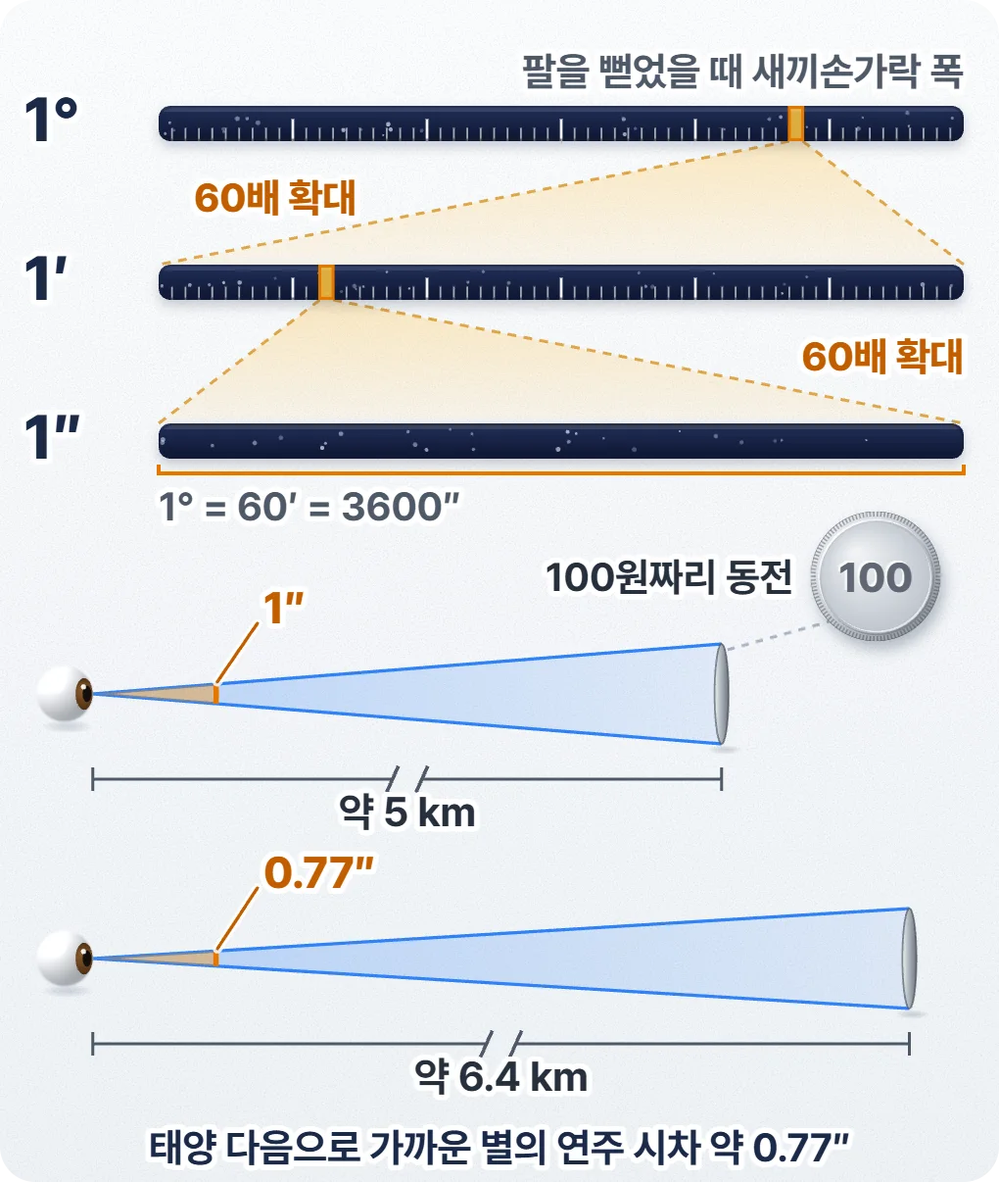
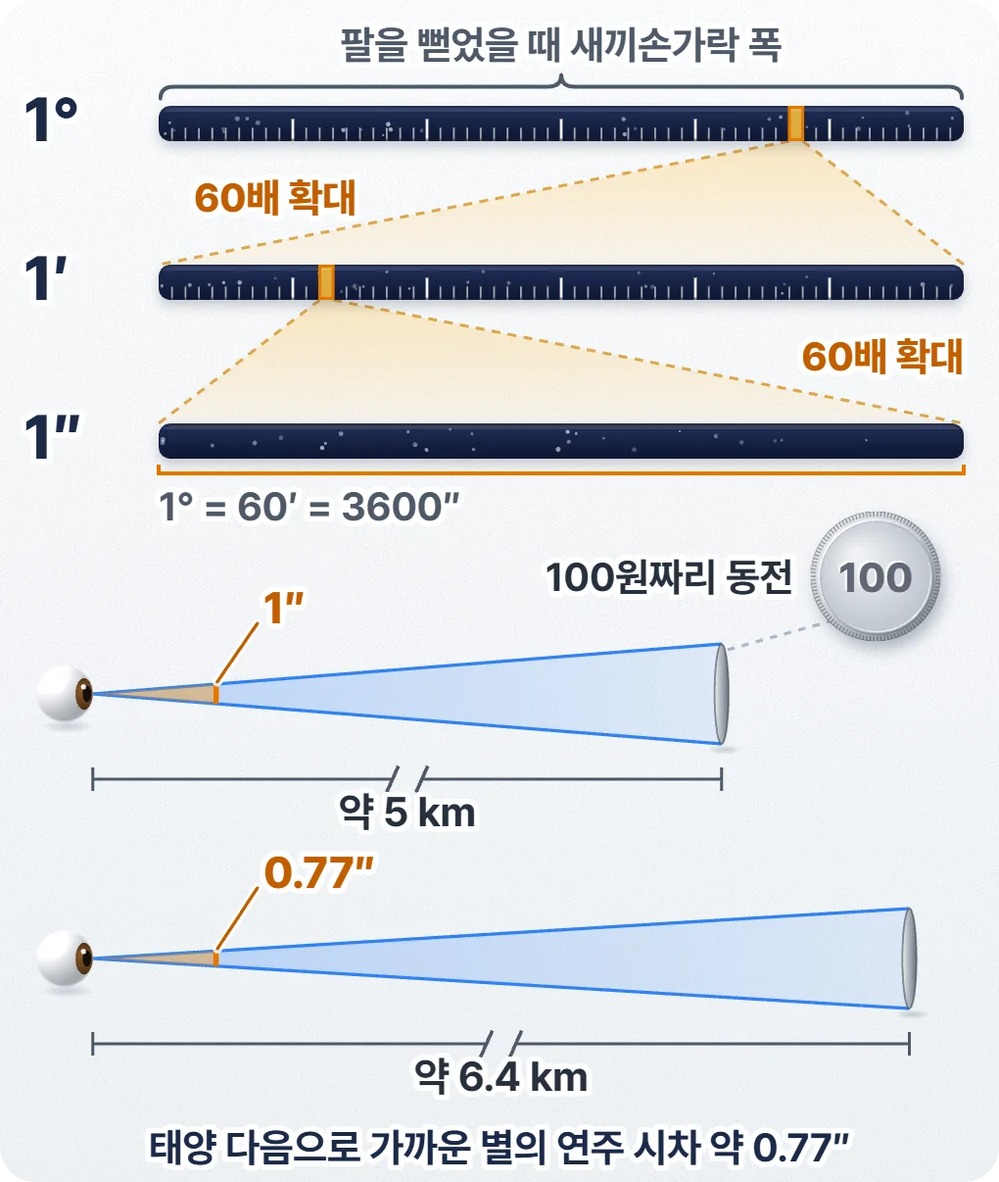
중2 과학 그림 독립 검산 지적 고치기(열한 장)
확실한 결함
- g2u1l8f1 재결정 거르기: 기운 비커의 수면을 부리까지 올리고(수면이 부리보다 낮은데 흐르던 것), 수면 위 벽에 떠 있던 결정을 용액 속 가장 낮은 곳으로
- g2u1l9f1 증류탑: 액체가 내려가는 관 안의 덮개와 기체 화살표를 뺌(기체는 판 위 덮개로만)
- g2u4l4f1 주기율표: 칸에 없는 '원자 번호'를 가리키던 범례를 '원소 기호'와 "칸은 원자 번호 차례예요(1번 수소부터)"로
- g2u8l8f1 같은 비율 칸: 지구보다 크게 들어 있던 명왕성 사진을 상자 밖으로 빼고 "크게 그렸어요" 표시, 태양 기호처럼 보이던 달 고리 없앰
의심이지만 고친 것
- g2u1l8f1 거름종이 확대 원의 흐름 화살표를 결정 사이 용액에서 시작, '거름종이' 지시선을 종이 면으로
- g2u2l1f1 아직 배우지 않은 '(모호면)' 뺌
- g2u2l6f1 '지표로 드러남' 보라 화살표를 변성암에서 지표까지, 이름표
- g2u3l2f1 캡션에 '비스듬히 들어갈 때' 조건(0° → 0°와 어긋나던 문장)
- g2u4l4f1 '란타넘족, 악티늄족'을 '57~71번, 89~103번'으로
- g2u4l1f2 엇갈리던 두 지시선
- g2u8l7f1 우리은하에 '상상도' 표시(대체 글도), g2u8l1f1 새끼손가락 폭이 1° 막대 전체를 가리키게, g2u6l5f2 돌아 나온 세뇨관의 꺾임을 보먼주머니 밖으로

Changed region(s): [[0.152, 0.0, 0.9725, 0.092]]

diff --git a/src/content/g2/unit8v5parts2.ts b/src/content/g2/unit8v5parts2.ts
@@ -239,7 +239,7 @@ export const L7: Step[] = numbered([
         art: starMiniArt("galaxy"),
         text: "<b>우리은하 밖에 있는 은하</b>예요. 우주에는 우리은하와 비슷한 은하가 수없이 많아요.",
         examples: ["안드로메다은하", "우리은하와 비슷한 은하가 수없이 많다"],
-        more: `${H("어떻게 알았을까요?")}100여 년 전까지 사람들은 우리은하가 우주의 전부라고 생각했어요. 그런데 천문학자 허블이 성운처럼 뿌옇게 보이던 천체까지의 거리를 재 보니 우리은하의 크기보다 훨씬 멀었어요. 그 천체는 우리은하 밖에 있는 또 다른 은하, 안드로메다은하였어요.${sciFigMore("g2u8l7f1", "아래 띠에 우리은하와 안드로메다은하를 같은 비율로 줄여 놓았어요. 두 은하 사이는 우리은하 지름의 약 25배인 약 77만 pc예요. 위의 확대 원에는 위에서 본 우리은하와 비스듬히 기운 안드로메다은하의 모습이 있어요.", "우리은하와 안드로메다은하를 같은 비율로 줄여 놓았어요. 두 은하는 우리은하 지름의 25배쯤 떨어져 있어요. 그래서 안드로메다은하는 우리은하 밖에 있는 또 하나의 은하예요.")}${H("그리고 또 하나")}허블은 멀리 있는 외부 은하일수록 우리은하에서 더 빨리 멀어진다는 사실도 알아냈어요. 이것이 우주가 팽창한다는 증거가 됐어요.${H("헷갈리지 마세요")}외부 은하는 우리은하 안의 성운이나 성단과 달라요. 성운과 성단은 <b>우리은하를 이루는 천체</b>이고, 외부 은하는 우리은하처럼 수많은 별이 모인 <b>또 하나의 은하</b>예요.`,
+        more: `${H("어떻게 알았을까요?")}100여 년 전까지 사람들은 우리은하가 우주의 전부라고 생각했어요. 그런데 천문학자 허블이 성운처럼 뿌옇게 보이던 천체까지의 거리를 재 보니 우리은하의 크기보다 훨씬 멀었어요. 그 천체는 우리은하 밖에 있는 또 다른 은하, 안드로메다은하였어요.${sciFigMore("g2u8l7f1", "아래 띠에 우리은하와 안드로메다은하를 같은 비율로 줄여 놓았어요. 두 은하 사이는 우리은하 지름의 약 25배인 약 77만 pc예요. 위의 확대 원에는 위에서 본 우리은하의 상상도와 비스듬히 기운 안드로메다은하 사진의 모습이 있어요.", "우리은하와 안드로메다은하를 같은 비율로 줄여 놓았어요. 두 은하는 우리은하 지름의 25배쯤 떨어져 있어요. 그래서 안드로메다은하는 우리은하 밖에 있는 또 하나의 은하예요.")}${H("그리고 또 하나")}허블은 멀리 있는 외부 은하일수록 우리은하에서 더 빨리 멀어진다는 사실도 알아냈어요. 이것이 우주가 팽창한다는 증거가 됐어요.${H("헷갈리지 마세요")}외부 은하는 우리은하 안의 성운이나 성단과 달라요. 성운과 성단은 <b>우리은하를 이루는 천체</b>이고, 외부 은하는 우리은하처럼 수많은 별이 모인 <b>또 하나의 은하</b>예요.`,
       },
       {
         name: "우주 팽창",

diff --git a/src/content/g2/unit3v5parts.ts b/src/content/g2/unit3v5parts.ts
@@ -123,7 +123,7 @@ const L2: G2U3Part = {
       { k: "figure", svg: cut("light", "g2u3l2", "유리 수조 속 물개의 수면 위 머리와 물속 몸통이 어긋나 보여 스틱맨이 깜짝 놀라고, 다른 스틱맨이 수면을 가리키는 장면"), cap: "수면을 지나며 꺾인 빛 때문에 몸통이 떠올라 보여요" },
         { k: "term", name: "빛의 굴절", def: "빛이 나아가다가 공기와 물처럼 <b>서로 다른 두 물질의 경계면</b>에서 진행 방향이 <b>꺾이는</b> 현상이에요. 경계면으로 들어가는 빛이 입사 광선, 꺾여 나아가는 빛이 <b>굴절 광선</b>이에요." },
         { k: "term", name: "입사각과 굴절각", def: "입사 광선과 법선이 이루는 각이 <b>입사각</b>, 굴절 광선과 법선이 이루는 각이 <b>굴절각</b>이에요. 실험에서 기록한 '들어간 각'이 입사각, '꺾인 각'이 굴절각이에요." },
-        sciFig("g2u3l2f1", "위는 공기, 아래는 물이에요. 수면의 한 점에 세운 법선을 기준으로, 왼쪽 위에서 입사각 40°로 들어간 빛은 굴절각 약 29°로 꺾여 꺾이지 않았다면 갈 길보다 법선 쪽으로 다가가요. 오른쪽 위에서 들어간 빛은 입사각 0°일 때 0°, 20°일 때 약 15°, 60°일 때 약 41°로 꺾여요.", "공기에서 물로 들어간 빛은 법선 쪽으로 꺾여요. 입사각이 커지면 굴절각도 커지지만, 굴절각은 늘 입사각보다 작아요."),
+        sciFig("g2u3l2f1", "위는 공기, 아래는 물이에요. 수면의 한 점에 세운 법선을 기준으로, 왼쪽 위에서 입사각 40°로 들어간 빛은 굴절각 약 29°로 꺾여 꺾이지 않았다면 갈 길보다 법선 쪽으로 다가가요. 오른쪽 위에서 들어간 빛은 입사각 0°일 때 0°, 20°일 때 약 15°, 60°일 때 약 41°로 꺾여요.", "공기에서 물로 비스듬히 들어간 빛은 법선 쪽으로 꺾여요. 입사각이 커지면 굴절각도 커지지만, 비스듬히 들어갈 때 굴절각은 늘 입사각보다 작아요."),
         { k: "note", tone: "amber", html: "빛이 <b>공기에서 물로</b> 비스듬히 들어갈 때 굴절각은 입사각보다 <b>작아요</b>. 입사각이 커지면 굴절각도 커져요. 수면에 수직으로 들어간 빛은 꺾이지 않아요." },
       ],
       cta: "다음 실험으로",

diff --git a/src/content/g2/sciFigG2.ts b/src/content/g2/sciFigG2.ts
@@ -31,7 +31,7 @@ const FIGS: Record<string, [string, number, number]> = {
   g2u3l7f1: ["u3", 1020, 1038],
   g2u4l1f1: ["u4", 1020, 990],
   g2u4l1f2: ["u4", 1020, 1146],
-  g2u4l4f1: ["u4", 1020, 924],
+  g2u4l4f1: ["u4", 1020, 960],
   g2u4l5f1: ["u4", 1020, 1152],
   g2u4l5f2: ["u4", 1020, 1230],
   g2u5l1f1: ["u5", 1020, 1212],
@@ -55,7 +55,7 @@ const FIGS: Record<string, [string, number, number]> = {
   g2u8l5f1: ["u8", 1020, 1218],
   g2u8l6f1: ["u8", 1020, 1140],
   g2u8l7f1: ["u8", 1020, 816],
-  g2u8l8f1: ["u8", 1020, 1080],
+  g2u8l8f1: ["u8", 1020, 1140],
   // </FIGS>
 };
 

diff --git a/qa/scifig-g2/figs/u1/g2u1l8f1.md b/qa/scifig-g2/figs/u1/g2u1l8f1.md
@@ -8,14 +8,18 @@
 - ① 질산 칼륨 10 g이 물 10 g에 다 녹으려면 약 56 ℃ 넘게 데워야 한다(용해도 50 ℃ 85.5, 60 ℃ 110). 그림의 용액은 두 물질이 모두 녹아 무색 투명, 가열 장치의 판이 달아 있고 김이 조금 오른다.
 - ② 식히면 질산 칼륨만 바늘(긴 각기둥) 모양 결정으로 나온다. 물 10 g에 녹아 있을 수 있는 질산 칼륨은 20 ℃ 약 3.2 g, 0 ℃ 약 1.3 g이라 나오는 양은 약 6.8~8.7 g: 작은 비커 바닥에 바늘 결정이 수북하다.
 - 염화 나트륨 2 g은 0 ℃에서도 물 10 g에 약 3.6 g까지 녹으므로 결정이 생기지 않는다: 정육면체 소금 결정은 어디에도 그리지 않았다.
-- ③ 거름 장치: 스탠드와 고리, 깔때기(원뿔 반각 30°), 네 겹으로 접어 원뿔로 편 거름종이(세 겹인 쪽에 유리 막대 끝을 댄다), 거름종이 가장자리는 깔때기 테두리보다 3 px 아래, 종이 속 용액 높이는 종이 높이를 넘지 않는다. 기울인 비커의 용액을 유리 막대를 타고 따른다(기울인 비커 속 수면은 수평). 깔때기 다리 끝은 비스듬히 잘렸고 뾰족한 쪽이 아래 비커의 안쪽 벽에 닿아, 거른 용액이 벽을 타고 흐른다. 받는 비커는 스탠드 받침판 위에 놓인다.
+- ③ 거름 장치: 스탠드와 고리, 깔때기(원뿔 반각 30°), 네 겹으로 접어 원뿔로 편 거름종이(세 겹인 쪽에 유리 막대 끝을 댄다), 거름종이 가장자리는 깔때기 테두리보다 3 px 아래, 종이 속 용액 높이는 종이 높이를 넘지 않는다. 기울인 비커의 용액을 유리 막대를 타고 따른다(기울인 비커 속 수면은 수평). 용액은 수면이 따르는 입까지 와야 흘러나오므로 수면 높이를 입(테두리의 가장 낮은 곳) 바로 위에 맞췄다. 기울인 비커에 아직 남은 결정 몇 개는 용액보다 무거워 가장 낮은 곳(따르는 입 쪽 벽과 바닥이 만나는 귀퉁이)의 용액 속에 가라앉아 있다(대부분의 결정은 이미 거름종이 위). 깔때기 다리 끝은 비스듬히 잘렸고 뾰족한 쪽이 아래 비커의 안쪽 벽에 닿아, 거른 용액이 벽을 타고 흐른다. 받는 비커는 스탠드 받침판 위에 놓인다.
 - 거른 용액에는 염화 나트륨 2 g과 미처 나오지 못한 질산 칼륨(약 1.3~3.2 g)이 함께 녹아 있다: 확대 원의 점은 종류를 나누지 않은 '녹아 있는 물질'(공통 규칙 2), 염화 나트륨만 있는 것처럼 그리지 않았다.
-- 확대 원: 거름종이 단면(납작한 셀룰로스 섬유가 여러 방향으로 얽힌 깔개)과 그 사이의 구멍. 결정은 구멍보다 훨씬 커서 종이 위에 걸리고, 아주 작은 점(녹아 있는 물질)과 물은 구멍을 지나간다(파란 화살표 셋). 실제 크기는 거름종이 구멍 수 μm, 결정 mm, 녹아 있는 입자 1 nm보다 작아서 크기 비는 실제와 다르다: 그림 안에 "크기는 실제와 다르게 그렸어요".
+- 확대 원: 거름종이 단면(납작한 셀룰로스 섬유가 여러 방향으로 얽힌 깔개)과 그 사이의 구멍. 결정은 구멍보다 훨씬 커서 종이 위에 걸리고, 아주 작은 점(녹아 있는 물질)과 물은 구멍을 지나간다(파란 화살표 셋). 화살표는 결정 사이와 옆의 용액에서 시작해 구멍을 지난다: 구멍 바로 위에는 결정을 두지 않아 결정이 종이를 뚫고 지나가는 것처럼 보이지 않게 했다. 실제 크기는 거름종이 구멍 수 μm, 결정 mm, 녹아 있는 입자 1 nm보다 작아서 크기 비는 실제와 다르다: 그림 안에 "크기는 실제와 다르게 그렸어요".
 
 ## 기하
 - ① 가열 장치 가운데 x 78, 윗면 y 132, 작은 비커 반지름 18(위 88 ~ 아래 130). ② 큰 비커 가운데 x 240, 반지름 37(위 78 ~ 아래 152), 찬물 높이 121, 작은 비커 반지름 18(위 92 ~ 아래 147), 작은 비커 뒤와 앞 가운데는 얼음을 비워 결정이 보이게.
 - ③ 스탠드 막대 x 184, 받침판 y 383~392. 깔때기 테두리 (236, 236) 반지름 25, 꼭짓점 y = 236 + 25/tan 30° ≈ 279, 다리 끝 y 322. 받는 비커 가운데 x 254, 반지름 22, 위 311 ~ 아래 383(왼쪽 안벽이 깔때기 다리에 닿는다).
-- 확대 원 가운데 (86, 296), 반지름 62, 거름종이 두께 24 px(y 287~311), 구멍 자리 x 53, 82, 113.
+- 기운 비커: 따르는 입 (249, 214), 기울기 −0.95 rad, 수면 y 213.5(입 바로 위). 남은 결정 넷은 입 쪽 벽(비커 좌표 u 2.3~5.4)과 바닥(v 32.8) 곁, v 20~33(모두 수면 아래).
+- 확대 원 가운데 (86, 296), 반지름 62, 거름종이 두께 24 px(y 287~311), 구멍 자리 x 42, 86, 130. 결정: 종이 위 두 개 x 47~81, x 91~125(구멍과 5 px 띄움),
+  오른쪽 결정 위에 하나(x 93~119). 화살표는 y 269(결정 윗면 높이의 용액)에서 시작해 y 320에서 끝난다.
+- 거름종이 지시선: 깔때기 앞 테두리(y ≈ 240.6)와 고리 앞쪽(y ≈ 247.4) 사이 종이 면 (228, 244)의 가운데. 유리 막대 끝(244.7, 252)에서 17 px, 깔때기 점(251.9, 250)에서 24 px.
+  이름표는 기운 비커 오른쪽 아래 빈자리(두 줄), 지시선은 비커 밑 귀퉁이(278.8, 235.1) 아래로 지나 막대를 끝보다 약 10 px 위(y 242.4)에서 건넌다.
 
 ## 라벨
-① 가열해 모두 녹이기, ② 얼음으로 식히기, ③ 거르기, 가열 장치, 유리 막대, 잘게 부순 얼음, 질산 칼륨 결정(②의 비커와 확대 원 두 곳), 스탠드, 깔때기, 거름종이, 거른 용액, 녹아 있는 물질, 거름종이의 구멍, 크기는 실제와 다르게 그렸어요.
+① 가열해 모두 녹이기, ② 얼음으로 식히기, ③ 거르기, 가열 장치, 유리 막대, 잘게 부순 얼음, 질산 칼륨 결정(②의 비커와 확대 원 두 곳), 스탠드, 깔때기, 거름종이(두 줄), 거른 용액, 녹아 있는 물질, 거름종이의 구멍, 크기는 실제와 다르게 그렸어요.

diff --git a/qa/scifig-g2/figs/u8/g2u8l8f1.md b/qa/scifig-g2/figs/u8/g2u8l8f1.md
@@ -9,16 +9,24 @@
   (1990년 약 610 km에서 해마다 조금씩 낮아져 요즘 약 510 km 안팎). 둘 다 지구 반지름의 1/10이 안 된다.
 - 달까지 평균 384400 km = 지구 지름(12742 km)의 30.2배. 달 반지름 1737 km = 지구의 0.273배(약 1/4).
 - 2015년 뉴호라이즌스호가 명왕성을 지날 때 지구에서 약 48억 km = 달까지 거리의 약 12500배("약 1만 2천 배").
-- 지구, 달, 명왕성의 겉면은 실사(earth_apollo17, moon_lro, pluto). 명왕성 사진 크기는 비율과 무관한 표지.
+- 명왕성 반지름 1188 km(지름 2377 km) = 지구의 0.187배로 달(0.273배)보다 작다.
+- 지구, 달, 명왕성의 겉면은 실사(earth_apollo17, moon_lro, pluto). 명왕성 사진은 같은 비율 상자 밖에 둔 표지이고, 크게 그렸다고 그림 안에 적었다.
 
 ## 계산과 기하
 - 위(같은 비율): 지구 반지름 98 px, 중심 (124, 126). 고리 반지름 = 98 × (6371 + h) / 6371:
   국제 우주 정거장 104.15 px(테두리 밖 6.15 px), 허블 105.69 px(7.69 px). 표지 점은 고리 위 −32°(정거장), +24°(허블).
-- 아래(같은 비율): 지구 지름 8.2 px, 중심 x = 17. 달 중심 x = 17 + 30.17 × 8.2 = 264.4, 달 반지름 4.1 × 0.273 = 1.12 px(자리를 알리는 가는 고리 5.2 px).
+- 아래 같은 비율 상자: (6.5, 308)~(276.5, 374), 모서리 반지름 10, 꼬리표 "같은 비율"은 위 테에 얹음(x 52). 상자 안에는 지구, 달, 거리 치수선만 있다.
+  지구 지름 8.2 px, 중심 (16, 332). 달 중심 x = 16 + 30.17 × 8.2 = 263.4, 달 반지름 4.1 × 0.273 = 1.12 px(지름 2.2 px).
   이 축척에서 두 궤도는 지구 테두리에서 0.3 px 남짓이라 테두리와 구별되지 않는다.
-- 명왕성 쪽은 달 너머로 끊음 표시(//)가 있는 점선 화살표. 이 비율로 그리면 명왕성은 약 300만 px 밖이라 그릴 수 없다.
-- 선택 항목(제임스 웹 우주 망원경 약 150만 km)은 넣지 않았다(아래 띠에 넣으면 명왕성 화살표와 헷갈린다).
+- 달 자리 표시: 둘레 고리는 없앴다(지구보다 큰 고리가 달 점과 함께 ⊙처럼 보였다). "달" 라벨의 지시선(끝점 없음)이 왼쪽 위에서 내려와
+  달 중심 3.7 px 앞에서 멈춘다. 거리 치수선의 오른쪽 눈금도 같은 x에 있다.
+- 같은 비율이면 명왕성 지름은 8.2 × 0.187 = 1.5 px(달보다 작은 점)이고 자리는 약 300만 px 밖이라 상자 안에 그릴 수 없다.
+  그래서 명왕성 쪽은 달 곁(x 270.4)에서 상자 오른쪽 테(x 276.5) 밖으로 나가는 점선 화살표, 상자 밖 x 288에 끊음 표시(//), 화살촉 끝 x 307.
+  명왕성 사진은 화살표 끝 (322, 332), 반지름 12 px(같은 비율의 약 16배)로 상자 밖에 두고, 사진 위 세 줄 끝에 "(명왕성 사진은 크게 그렸어요)".
+- 별은 space()와 같은 씨앗(83, 200개)으로 따로 뿌리고, 아래 지구와 달 점의 10 px 안과 명왕성 사진 곁(중심에서 21 px 안)은 비웠다
+  (달 점이 별과 헷갈리지 않게, 명왕성 곁의 별이 위성처럼 보이지 않게). 작은 지구와 달 사진은 고품질로 줄여 점이 얼룩지지 않게 했다.
+- 선택 항목(제임스 웹 우주 망원경 약 150만 km)은 넣지 않았다(아래 상자에 넣으면 명왕성 화살표와 헷갈린다).
 
 ## 라벨
-같은 비율(두 번), 지구(두 번), 국제 우주 정거장 약 400 km, 허블 우주 망원경 약 500 km, 달, 약 38만 km, 명왕성(뉴호라이즌스호),
-달까지 거리의 약 1만 2천 배. 13.5~14 px, 어두운 할로, 고리 색과 같은 색의 높이 숫자(금빛, 하늘빛).
+같은 비율(두 번), 지구(두 번), 국제 우주 정거장 약 400 km, 허블 우주 망원경 약 500 km, 달(지시선), 약 38만 km, 명왕성(뉴호라이즌스호),
+달까지 거리의 약 1만 2천 배, (명왕성 사진은 크게 그렸어요). 13.5~14 px, 어두운 할로, 고리 색과 같은 색의 높이 숫자(금빛, 하늘빛).

diff --git a/qa/scifig-g2/figs/u4/g2u4l4f1.md b/qa/scifig-g2/figs/u4/g2u4l4f1.md
@@ -4,8 +4,9 @@
 - 근거: 책 146~147쪽 그림 IV-6 주기율표(고체 파랑, 액체 초록, 기체 살구의 빛깔 약속을 따랐다).
 
 ## 담은 과학 사실(코드가 세어 어긋나면 그리지 않는다)
-- 원소 118개, 족 18개, 주기 7개. 원자 번호는 1번부터 차례로: 본표 7줄을 읽은 차례에 6주기 3족 자리에서 란타넘족 15개(57~71),
-  7주기 3족 자리에서 악티늄족 15개(89~103)를 넣으면 1~118이 빈틈없이 이어진다(코드가 La 57, Lu 71, Ac 89, Lr 103, Rf 104, Og 118, F 9, Na 11을 확인).
+- 원소 118개, 족 18개, 주기 7개. 원자 번호는 1번부터 차례로: 본표 7줄을 읽은 차례에 6주기 3족 자리에서 아래 첫 줄 15개(57~71번),
+  7주기 3족 자리에서 아래 둘째 줄 15개(89~103번)를 넣으면 1~118이 빈틈없이 이어진다(코드가 La 57, Lu 71, Ac 89, Lr 103, Rf 104, Og 118, F 9, Na 11을 확인).
+- 아래 두 줄의 이름은 번호 범위('57~71번', '89~103번')만 쓴다: 두 줄의 무리 이름(란타넘족, 악티늄족)은 배우지 않은 말이고, 그 '족'은 세로줄 이름 '족'과 헷갈린다.
 - 1주기는 H와 He 둘뿐(사이 빈칸), 2주기와 3주기는 3~12족 자리가 빈칸.
 - 실온(25 ℃, 1기압) 상태: 기체 11(H, He, N, O, F, Ne, Cl, Ar, Kr, Xe, Rn), 액체 2(Br, Hg), 104~118번 15개는 확인되지 않음, 나머지 90개 고체.
   갈륨(녹는점 29.8 ℃)과 세슘(28.4 ℃)은 25 ℃에서 고체. 수소는 1족 맨 위지만 기체라 같은 족 금속(고체)과 빛깔이 다르다.
@@ -16,11 +17,13 @@
 - 100~103번(Fm, Md, No, Lr)과 At(85), Fr(87)도 실제로는 덩어리로 모아 본 적이 없어 상태가 예측값이다. 명세와 책 그림을 따라 104~118번만
   '확인되지 않음'으로 하고 나머지는 고체로 칠했다.
 
-## 치수(설계 px, 340 × 308)
+## 치수(설계 px, 340 × 320)
 - 칸 간격 PX = (340 − 14 − 2) / 18 = 18.0, 칸 폭 16.9, 칸 높이 19.6, 줄 간격 21. 본표 맨 위 y 22, 아래 두 줄 y 192와 222(4족 자리부터 15칸).
 - 글자는 모두 13.5 px 이상: 원소 기호 13.5 px 굵게. 가장 넓은 기호(Cm 21.7 px)처럼 칸보다 넓은 기호는 SVG textLength로 가로만 칸 폭(14.7 px)에 맞춰
-  눌렀다(글자 높이는 그대로). 원자 번호는 칸에 넣지 않고, 왼쪽 아래 크게 그린 보기 칸(1, H)에서 원자 번호와 원소 기호를 보였다.
-- 6, 7주기 3족 칸은 아래 두 줄과 같은 빛깔(란타넘족 보라, 악티늄족 초록)에 아래 화살표를 넣어 이어짐을 보였다(57~71, 89~103은 칸이 좁아 아래 줄 이름 곁에 썼다).
+  눌렀다(글자 높이는 그대로). 원자 번호는 13.5 px로 칸에 들어가지 않아 어느 칸에도 쓰지 않았다. 그래서 왼쪽 아래 보기 칸(36 × 36)도 원소 기호(H)만 보이고
+  '원소 기호'를 가리키며, 그 아래 한 줄로 "칸은 원자 번호 차례예요(1번 수소부터)"라고 밝혔다(보기 칸에 표에 없는 번호를 보이지 않는다).
+- 6, 7주기 3족 칸은 아래 두 줄과 같은 빛깔(57~71번 보라, 89~103번 초록)에 아래 화살표를 넣어 이어짐을 보였다(번호 범위는 칸이 좁아 아래 줄 왼쪽에 썼다).
+- 보기 자리: 보기 칸 y 255~291, 상태 열쇠 두 줄 y 256~271, 276~291, 차례 글 기준선 y 310.
 
 ## 라벨
-족, 주기, 1~18, 1~7, 원자 번호, 원소 기호, 고체, 액체, 기체, 확인되지 않음, 란타넘족, 악티늄족, 57~71, 89~103.
+족, 주기, 1~18, 1~7, 원소 기호, 고체, 액체, 기체, 확인되지 않음, 57~71번, 89~103번, 칸은 원자 번호 차례예요(1번 수소부터).

diff --git a/qa/scifig-g2/figs/u6/g2u6l5f2.md b/qa/scifig-g2/figs/u6/g2u6l5f2.md
@@ -11,6 +11,7 @@
 - 겉질과 속질의 경계는 ①과 ②에서 같은 주황 점선(#D9480F).
 - ② 콩팥단위 하나(수백 배 확대): 토리(모세혈관이 실뭉치처럼)와 이를 감싼 보먼주머니(앞쪽을 잘라 속이 보이게, 자른 테만)는 겉질에만 있다.
   세뇨관은 보먼주머니에서 나와 겉질에서 꼬불꼬불하다가 속질로 곧게 내려가 고리를 돌아 올라오고, 다시 토리 곁으로 와서 꼬불거린 뒤 모으는 관으로 이어진다.
+  보먼주머니에서 나가는 관은 세뇨관 하나뿐이다. 돌아온 세뇨관은 주머니 안으로 들어가지 않고 주머니 바깥 곁(오른쪽 위)에서 꺾여 모으는 관 쪽으로 간다.
   모으는 관(이름 없이)은 속질을 지나 원뿔 끝으로, 노란 화살표가 콩팥깔때기 쪽을 가리킨다.
 - 혈관: 토리로 들어가는 가는 혈관(빨강, 굵음), 나오는 가는 혈관(빨강, 가늘다)이 세뇨관 둘레의 모세혈관 그물이 되고(빨강 → 보라 → 파랑), 가는 정맥(파랑)으로 모인다.
   고리 곁에는 속질로 내려갔다 올라오는 곧은 모세혈관 한 쌍. 그물 몇 가닥은 세뇨관 위로 지나가 감싸는 모습.
@@ -20,7 +21,10 @@
 ## 기하
 - ① 15 px = 1 cm, 콩팥 가운데 (116, 104), 길이 11 cm(165 px), 폭 6.1 cm. 콩팥문의 오목한 깊이 1.65 cm. 빈자리 타원 가운데 (1.35, 0.1) cm, 반지름 1.45 × 2.6 cm.
   원뿔 방향(빈자리 가운데에서) −98° ~ −270°를 26°씩 8개, 바닥 반각 0.2 rad. 겉질 깊이는 콩팥문 오목한 곳을 뺀 볼록한 겉선에서 잰다.
-- ② 칸 (8, 222) 324 × 184, 겉질과 속질의 경계 y 322, 토리 가운데 (76, 268) r 15, 보먼주머니 r 21.
+- ② 칸 (8, 222) 324 × 184, 겉질과 속질의 경계 y 322, 토리 가운데 (76, 268) r 15, 보먼주머니 가운데 (78, 269) r 21(앞쪽 잘린 테 두께 2.4).
+  세뇨관(굵기 6.4, 테 포함 7.3)이 주머니를 떠나는 곳은 오른쪽 아래 (93, 280) 한 곳. 돌아온 세뇨관의 꺾임은 x 99.4~108, y 239.5~252.5이고
+  중심선이 주머니 가운데에서 29.8 px 넘게 떨어져 관 바깥 테가 주머니 테 바깥(22.2)보다 3.9 px 밖에 있다(예전 판은 16.1 px로 주머니 안에서 꺾였다).
+  꺾이기 전 곧은 부분과 첫 꼬불관 사이는 중심선 12.2 px(관 사이 4.9 px).
 
 ## 라벨
 ① 콩팥겉질, 콩팥속질, 콩팥동맥, 콩팥정맥, 콩팥깔때기, 오줌관(14 px). ② 콩팥단위, 토리, 보먼주머니, 세뇨관, 모세혈관(14 px), 수백 배 확대, 콩팥겉질, 콩팥속질,

diff --git a/qa/scifig-g2/figs/u1/g2u1l9f1.md b/qa/scifig-g2/figs/u1/g2u1l9f1.md
@@ -8,7 +8,9 @@
 - 끓는점이 낮은 물질일수록 높은 곳에서 나온다. 위에서 아래로 액화 석유 가스, 휘발유, 등유, 경유, 중유, 찌꺼기(앱 글, 순서 맞추기 [6]과 같다).
 - 끓는점 범위는 책의 자료 그대로: 액화 석유 가스 −42~1 ℃, 휘발유 30~120 ℃, 등유 150~280 ℃, 경유 230~350 ℃, 중유 300 ℃ 이상. 범위가 겹치는 것(등유와 경유, 경유와 중유)은 실제로 그렇다(산물 하나하나도 혼합물). 빼기는 수학 마이너스(U+2212).
 - 원유는 가열로에서 약 350 ℃로 데워져 일부는 기체, 일부는 액체인 채로 맨 아래 선반 밑으로 들어간다: 들어온 자리에서 흰 화살표는 위로(기체), 갈색 화살표는 아래로(액체).
-- 선반 열 단: 판 위에 얕게 고인 액체(높을수록 옅은 노랑, 낮을수록 짙은 갈색), 판 구멍 위의 덮개(뒤집힌 컵) 셋과 그 가장자리의 거품(기체가 액체를 뚫고 올라간다), 넘친 액체가 칸막이와 벽 사이로 아래 선반에 내려가는 관(양쪽 번갈아). 기체는 위로(흰 화살표), 액체는 아래로(갈색 화살표) 서로 반대 방향.
+- 선반 열 단: 판 위에 얕게 고인 액체(높을수록 옅은 노랑, 낮을수록 짙은 갈색), 판 구멍 위의 덮개(뒤집힌 컵)와 그 가장자리의 거품(기체가 액체를 뚫고 올라간다), 넘친 액체가 칸막이와 벽 사이로 아래 선반에 내려가는 관(양쪽 번갈아). 기체는 위로(흰 화살표), 액체는 아래로(갈색 화살표) 서로 반대 방향.
+- 기체는 판 위의 덮개로만 오르고, 내려가는 관에는 액체만 흐른다: 위 선반의 내려가는 관이 내려앉는 자리(판의 액체가 들어오는 쪽, 가로 11 px)에는 덮개도 흰 화살표도 두지 않았다.
+  그래서 덮개는 맨 위 선반(위에서 내려오는 관이 없다)에 셋, 나머지 아홉 단에 둘이다. 흰 화살표는 덮개마다 하나(그 덮개에서 바로 위 선반 밑까지).
 - 액화 석유 가스는 꼭대기 지붕의 출구로 기체인 채 나오고, 찌꺼기는 탑 바닥에 고였다가 맨 아래 출구로 액체인 채 빠진다.
 - 실제 탑은 선반이 수십 단이고 휘발유와 액화 석유 가스는 함께 꼭대기로 나와 따로 나누지만, 그림은 책 그림처럼 산물 하나에 출구 하나로 간추렸다.
 - 쓰임: 가스통(가정용, 자동차 연료), 자동차(자동차 연료), 비행기(항공기 연료), 트럭(디젤 엔진 연료), 배(공장, 배 연료), 도로(도로 포장).

diff --git a/qa/scifig-g2/figs/u2/g2u2l6f1.md b/qa/scifig-g2/figs/u2/g2u2l6f1.md
@@ -14,7 +14,10 @@
   → (열과 압력을 받음) → 변성암 → (녹음) → 마그마 → (식어서 굳어짐) → 화성암.
 - 지름길(점선): 화성암 → 변성암(열과 압력을 받음), 변성암 → 산비탈의 지표(지표로 드러남, 이어서 잘게 부서짐으로 퇴적물), 퇴적암 → 마그마(녹음).
   CycleLab의 GO 표(ign: heat → met, met: break → sedi, sed: melt → mag)와 같다. 같은 일로 같은 자리에 닿는 두 화살표는 과정 이름 하나를 함께 쓴다
-  (열과 압력을 받음, 녹음, 지표로 드러남). 캡션에 "점선은 중간 단계를 건너뛰는 길"이라고 밝혔다.
+  (열과 압력을 받음, 녹음). 캡션에 "점선은 중간 단계를 건너뛰는 길"이라고 밝혔다.
+- 변성암 → 지표 점선은 산 밑의 변성암(보라 띠, x 164, y 212) 속에서 시작한다: 화성암 → 변성암 점선(그 자리에서 y ≈ 234)과 20 px 넘게 떨어져 갈래처럼 보이지 않는다.
+  끝(화살촉)은 산비탈의 지표(x 163, 지표 y + 2.5, 강 줄기 바로 아래)에 닿는다. 지표로 드러남은 두 화살표가 닿는 자리(산꼭대기, 산비탈)가 달라
+  이름 하나로 함께 쓰면 어느 화살표의 이름인지 헷갈리므로 화살표마다 오른쪽 곁에 '지표로 드러남'을 하나씩 두었다.
 - 과정 이름은 책과 개념 카드의 다섯 말 그대로이고 '지표로 드러남'만 더했다. 깊이와 가로는 실제 비율이 아님을 그림 아래에 밝혔다.
 
 ## 기하
@@ -23,5 +26,5 @@
 - 이름표 자리: 퇴적물 (288, 139), 퇴적암 (288, 186), 변성암 (282, 254), 마그마 (226, 350), 화성암 (100, 206).
 
 ## 라벨
-퇴적물, 퇴적암, 변성암, 마그마, 화성암, 잘게 부서짐, 다져지고 굳어짐, 열과 압력을 받음, 녹음, 식어서 굳어짐, 지표로 드러남, 강, 바다,
+퇴적물, 퇴적암, 변성암, 마그마, 화성암, 잘게 부서짐, 다져지고 굳어짐, 열과 압력을 받음, 녹음, 식어서 굳어짐, 지표로 드러남(두 곳: 화성암 화살표 곁, 변성암 점선 곁), 강, 바다,
 깊이와 가로 길이는 실제 비율이 아님. 화산은 이름표 없이 그림으로만 둔다.

diff --git a/qa/scifig-g2/figs/u8/g2u8l1f1.md b/qa/scifig-g2/figs/u8/g2u8l1f1.md
@@ -13,6 +13,8 @@
 ## 계산과 기하
 - 사다리: 띠 폭 274 px(x 54~328)를 60칸으로 나눔(한 칸 4.567 px, 10칸마다 긴 눈금). 한 칸(노란 칸)에서 다음 줄 띠 전체로 벌어지는 확대 통로라
   다음 줄은 정확히 60배(4.567 px → 274 px). 1줄 노란 칸 47번째, 2줄 12번째. 3줄(1″)은 칸이 없는 띠와 양 끝 괄호.
+- "팔을 뻗었을 때 새끼손가락 폭"은 1° 띠 전체(x 54~328)를 위에서 감싸는 회색 중괄호(양 끝 y 33.5, 줄 y 29.5, 꼭지 x 191, y 25.5)의 꼭지 위에
+  가운데 맞춤으로 둔다. 예전처럼 띠 오른쪽 위에 두면 바로 아래 노란 칸(1′) 하나를 설명하는 것처럼 읽혔다.
 - 아래 두 줄: 눈동자(시선의 꼭짓점) x = 31.6. 그림 속 동전 높이 34 px(같은 동전). 5 km를 214 px로 그리고 6.4 km는 214 × (1/0.77) = 277.9 px.
   시선 반각 atan(17/214) = 4.54°, atan(17/277.9) = 3.50°로 두 각의 비 0.770(= 0.77″/1″). 거리를 같은 비율로 늘렸으므로 각의 비가 맞다.
 - 각은 알아보기 쉽게 크게 벌렸다(그림 속 9.1°가 1″를 뜻함). 거리는 치수선 가운데를 끊어(//) 줄였다는 표시.
@@ -21,5 +23,5 @@
 - 100원짜리 동전 앞면은 확대 원(반지름 22 px): 은빛 금속 그라데이션, 테두리 톱니 110개, 돋은 안쪽 테, 양각 숫자 100. 초상은 그리지 않았다.
 
 ## 라벨
-1°, 1′, 1″(21 px), 팔을 뻗었을 때 새끼손가락 폭, 60배 확대(두 번), 1° = 60′ = 3600″, 100원짜리 동전, 1″, 0.77″, 약 5 km, 약 6.4 km,
+1°, 1′, 1″(21 px), 팔을 뻗었을 때 새끼손가락 폭(1° 띠 전체를 감싼 중괄호 위), 60배 확대(두 번), 1° = 60′ = 3600″, 100원짜리 동전, 1″, 0.77″, 약 5 km, 약 6.4 km,
 태양 다음으로 가까운 별의 연주 시차 약 0.77″(13.5~15 px). 기호 ′(U+2032), ″(U+2033).

diff --git a/qa/scifig-g2/figs/u8/g2u8l7f1.md b/qa/scifig-g2/figs/u8/g2u8l7f1.md
@@ -9,6 +9,7 @@
 - 안드로메다은하는 우리은하보다 조금 크다(긴 지름을 우리은하의 1.5배로, 숫자는 적지 않음). 비스듬히 기울어 짧은 지름은 긴 지름의 0.36배.
 - 안드로메다은하는 우리은하로 다가오는 은하(초속 약 110 km)라 멀어지는 화살표를 넣지 않았다. 움직임 화살표는 아예 없다.
 - 은하의 겉모습은 사진만 썼다: 우리은하는 위에서 본 상상도(NASA/JPL-Caltech/R. Hurt), 안드로메다은하는 실사(NOIRLab, M31, M32가 아래쪽에 함께 보임).
+  실사 옆에 놓인 우리은하 그림이 사진으로 읽히지 않게 라벨을 "우리은하(상상도)"로 적었다(g2u8l5f1의 "위에서 본 상상도"와 같은 뜻).
 
 ## 계산과 기하
 - 띠(같은 비율): 우리은하 지름 D = 11.6 px, 중심 x = 22. 안드로메다은하 중심 x = 22 + 25 × 11.6 = 312. 긴 지름 17.4 px, 짧은 지름 6.3 px, 긴 축은 사진처럼 오른쪽 아래 50°.
@@ -18,4 +19,4 @@
 - 띠의 안드로메다은하는 사진의 원반 부분을 타원으로 부드럽게 오려 긴 지름에 맞췄다(이 크기에서는 길쭉한 빛 얼룩으로만 보인다).
 
 ## 라벨
-우리은하, 지름 약 30000 pc, 안드로메다은하, 같은 비율, 약 77만 pc(빛으로 약 250만 년), 우리은하 지름의 약 25배. 13.5~14 px, 어두운 할로.
+우리은하(상상도), 지름 약 30000 pc, 안드로메다은하, 같은 비율, 약 77만 pc(빛으로 약 250만 년), 우리은하 지름의 약 25배. 13.5~14 px, 어두운 할로.

diff --git a/qa/scifig-g2/figs/u3/g2u3l2f1.md b/qa/scifig-g2/figs/u3/g2u3l2f1.md
@@ -6,7 +6,8 @@
 ## 담은 과학 사실(스넬 법칙, 공기 1.00 → 물 1.33)
 - sin(굴절각) = sin(입사각) / 1.33: 0° → 0°, 20° → 14.90°, 40° → 28.90°, 60° → 40.63°. 그림의 표는 약 15°, 약 29°, 약 41°.
 - 굴절 광선은 법선의 반대쪽으로 나아가며 법선 쪽으로 다가간다. 40° 줄기의 굴절 광선(28.90°)은 회색 점선 '꺾이지 않았다면 갈 길'(40°)보다 법선에 가깝다.
-- 굴절각은 늘 입사각보다 작고 입사각과 함께 커진다. 각은 모두 법선에서 잰다. 수직 줄기(0°)는 꺾이지 않고 법선과 겹친다.
+- 비스듬히 들어간 빛(입사각이 0°보다 클 때)의 굴절각은 늘 입사각보다 작고, 입사각과 함께 커진다. 각은 모두 법선에서 잰다. 수직 줄기(0°)는 꺾이지 않고 법선과 겹친다(0° → 0°).
+  캡션도 "비스듬히 들어갈 때 굴절각은 늘 입사각보다 작아요"로 써서 0° → 0°와 어긋나지 않게 했다.
 - 경계면에서 되돌아 나오는 약한 반사 빛은 그리지 않았다(굴절만 다루는 그림).
 
 ## 명세와 다르게 한 점(까닭)
